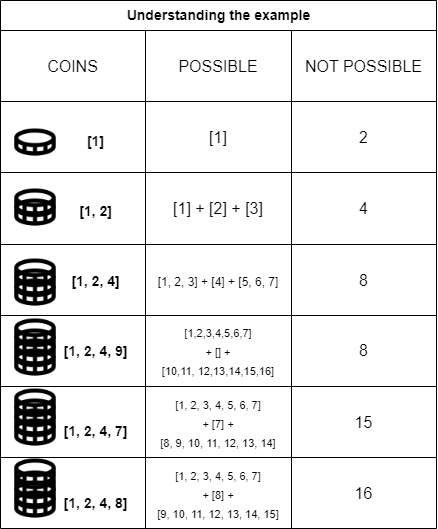
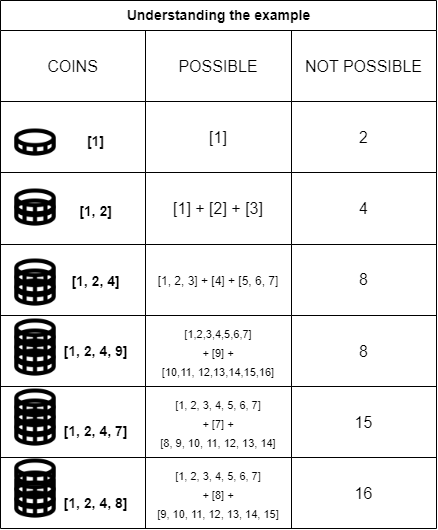
I changed the image of the example of challenge 3, in case +9 I wasnt adding 9 to the possible changes

diff --git a/challenges/example-challenge-three.md b/challenges/example-challenge-three.md
@@ -1,7 +1,7 @@
 # 💸 Understanting Challenge Three with an example
 Let's Imagine I sort all my coins in ascending order, and I start building a new set of coins taking them in my hand one-by-one
 
-![Alt text](../images/coins_example.png)
+![Coins example with [1,2,4]](../images/coins_example.png)
 
 ## Consider the following statements...
 * The *POSSIBLE* changes are separated in three groups: 
